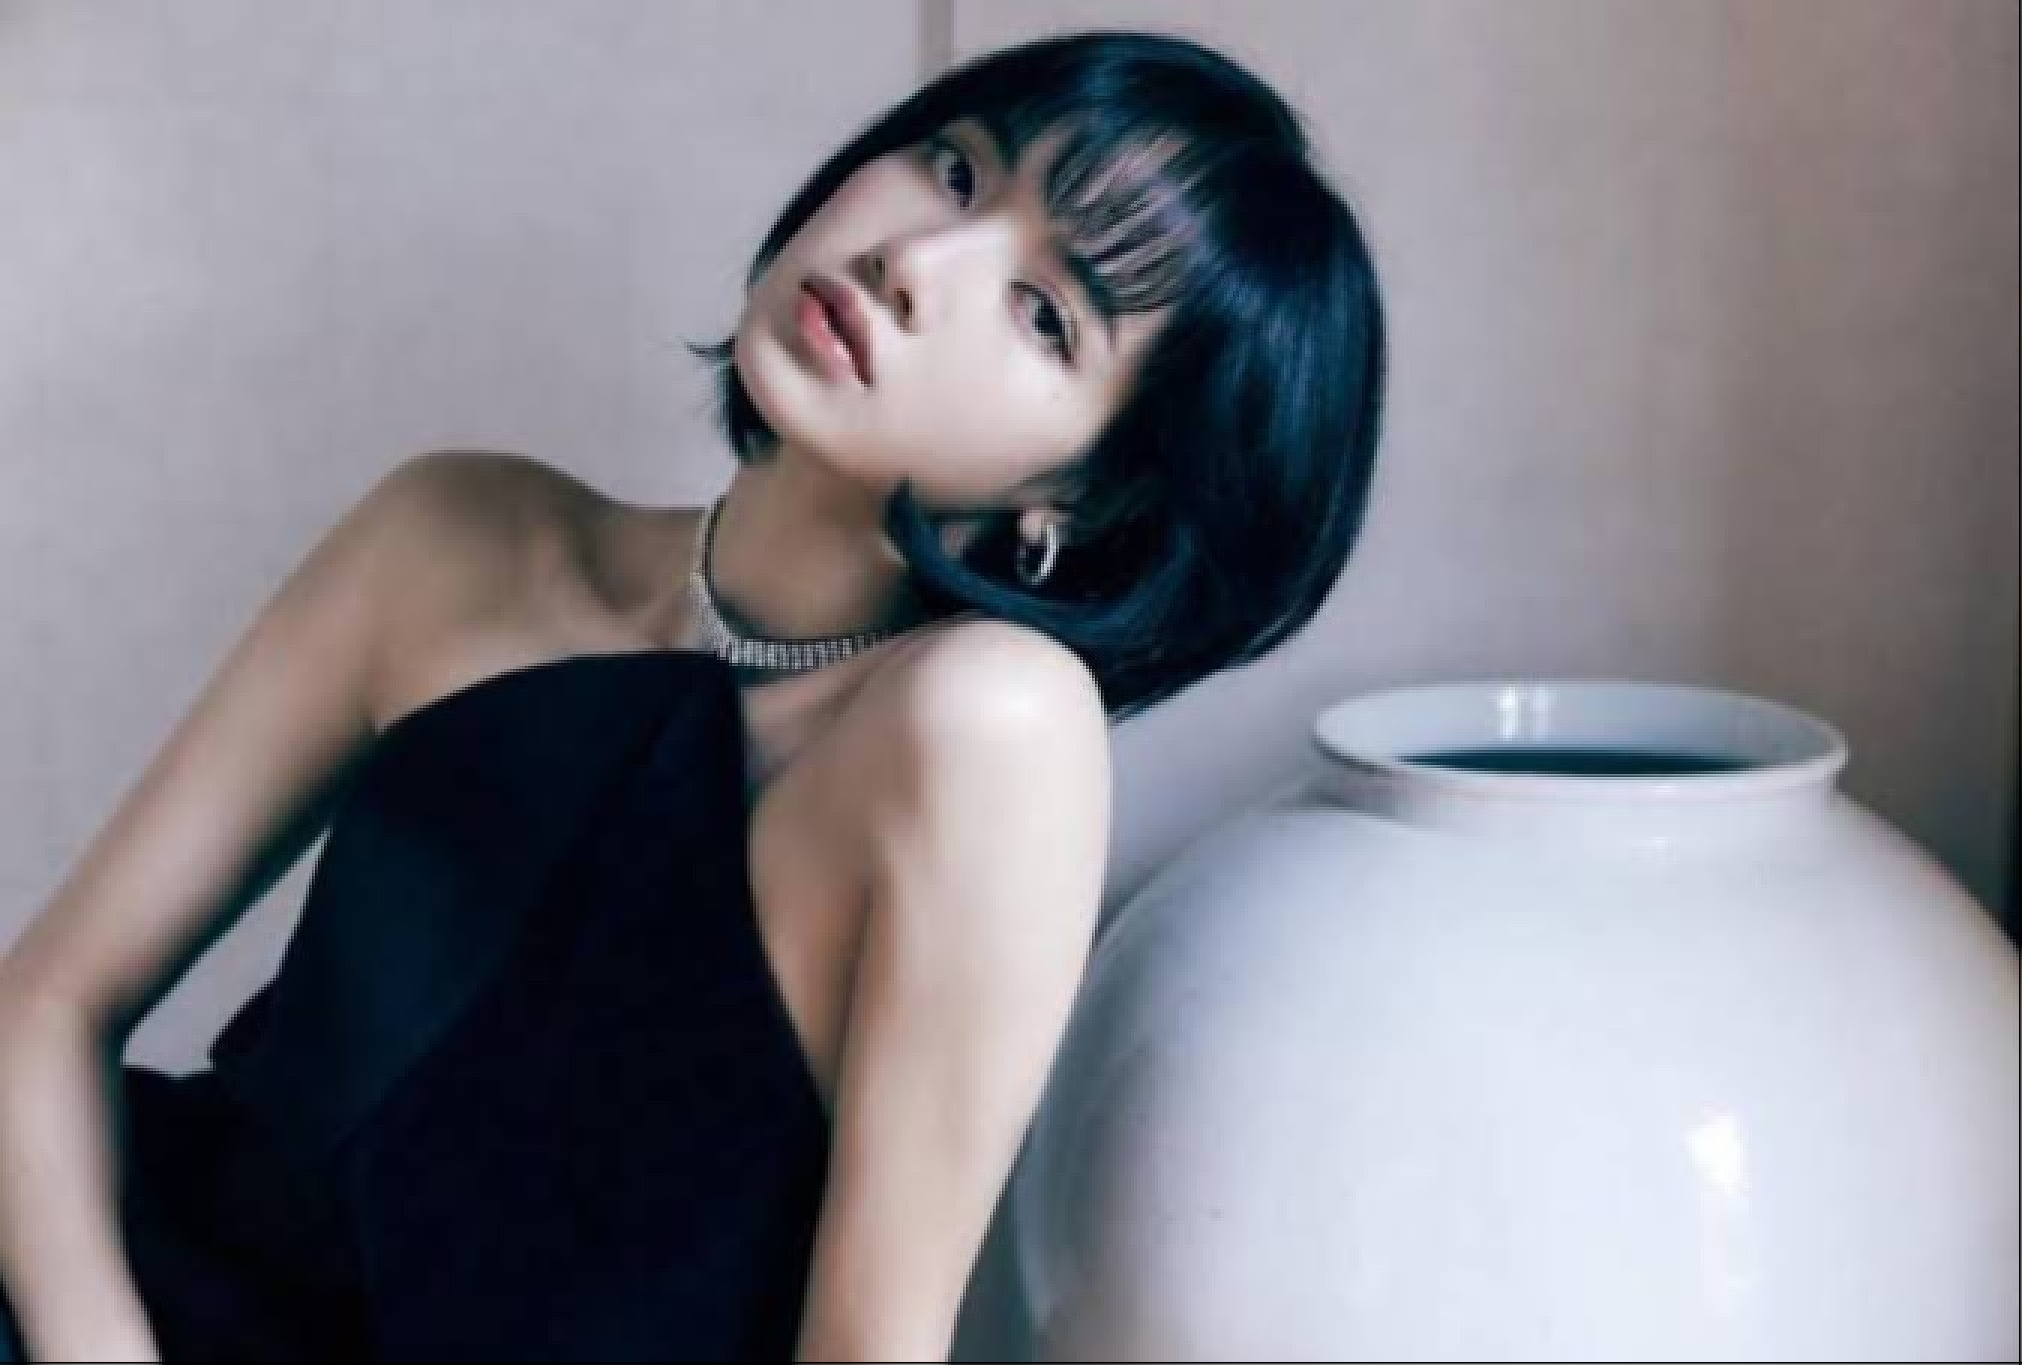
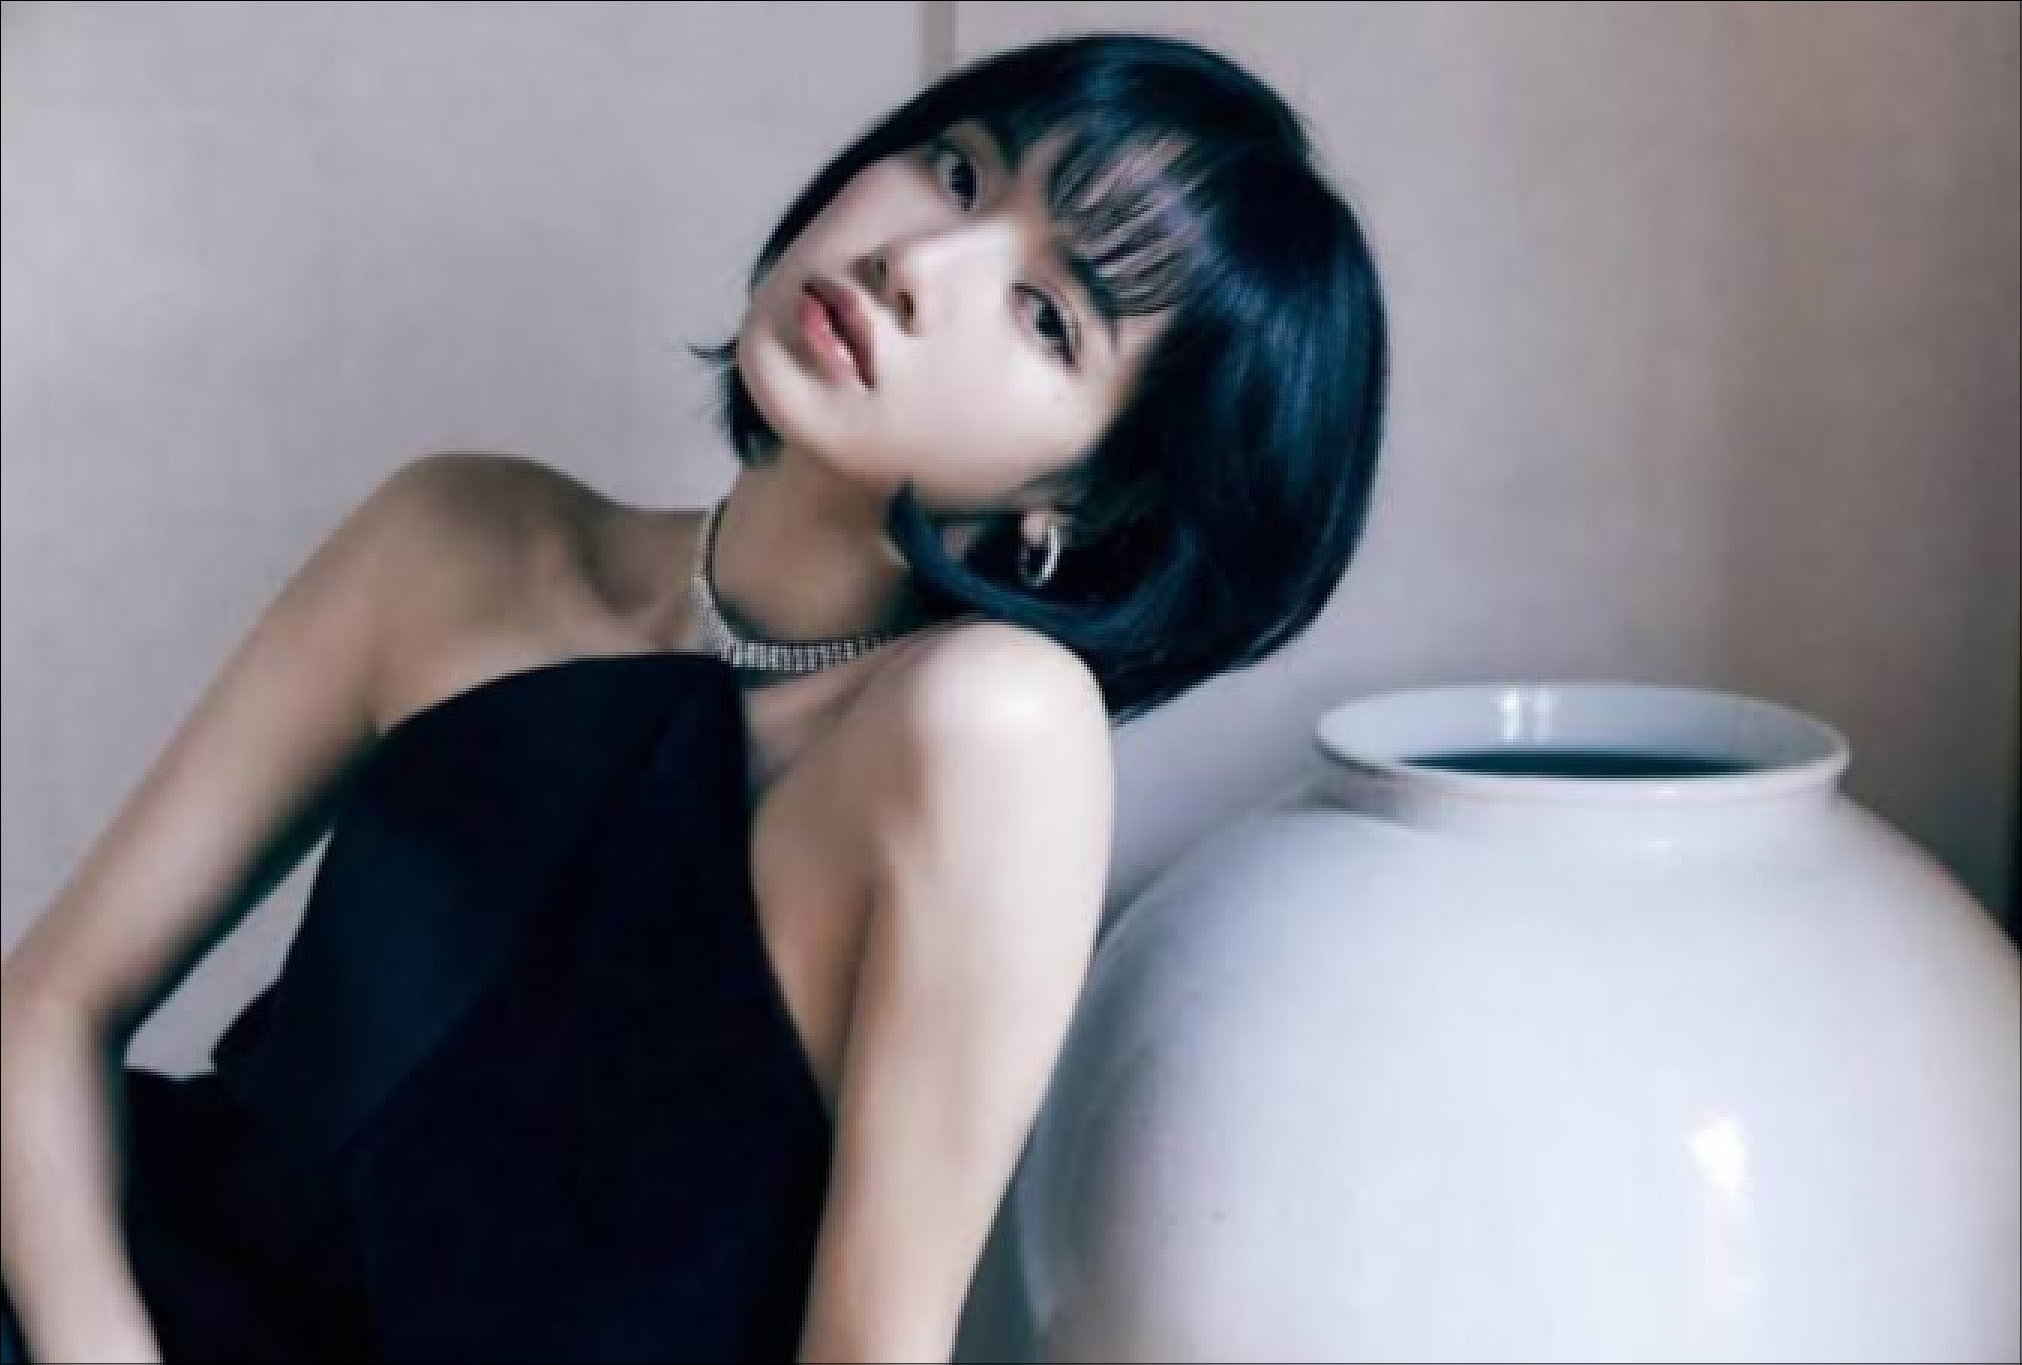
bilinear code fixed

diff --git a/lab01/bilinear.py b/lab01/bilinear.py
@@ -1,5 +1,4 @@
 import numpy as np
-from tqdm import tqdm
 import cv2
 
     
@@ -24,8 +23,8 @@ for i in range(3*h):
         dy = j - (j-1) // 3 * 3
         dx /= 3
         dy /= 3
-        
-
-
+        px1 = dx * pad[x][y] + (1-dx) * pad[x+1][y]
+        px2 = dx * pad[x][y+1] + (1-dx) * pad[x+1][y+1]
+        res[i][j] = dy * px1 + (1-dy) * px2
 
 cv2.imwrite("lisa_bilinear.jpeg", res)
